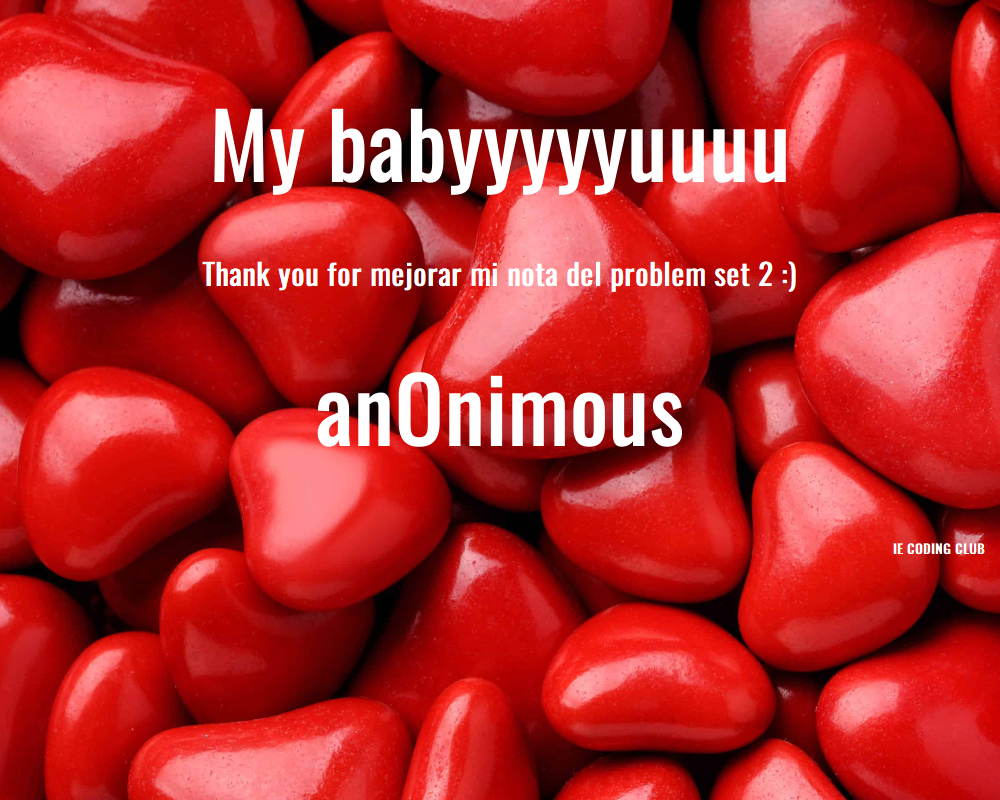
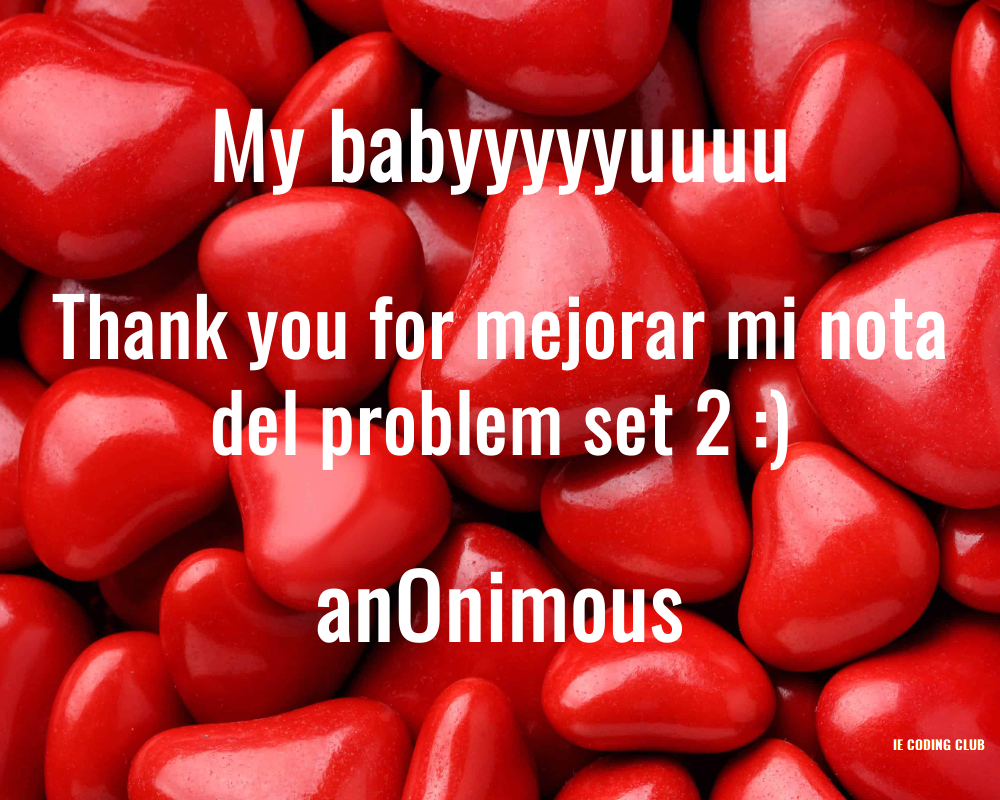
slight update to template3

diff --git a/templates/template3.html b/templates/template3.html
@@ -23,7 +23,7 @@
 
         p {
             color: white;
-            font-size: 30px;
+            font-size: 80px;
             line-height: 1.2;
             text-align: center; 
         }
